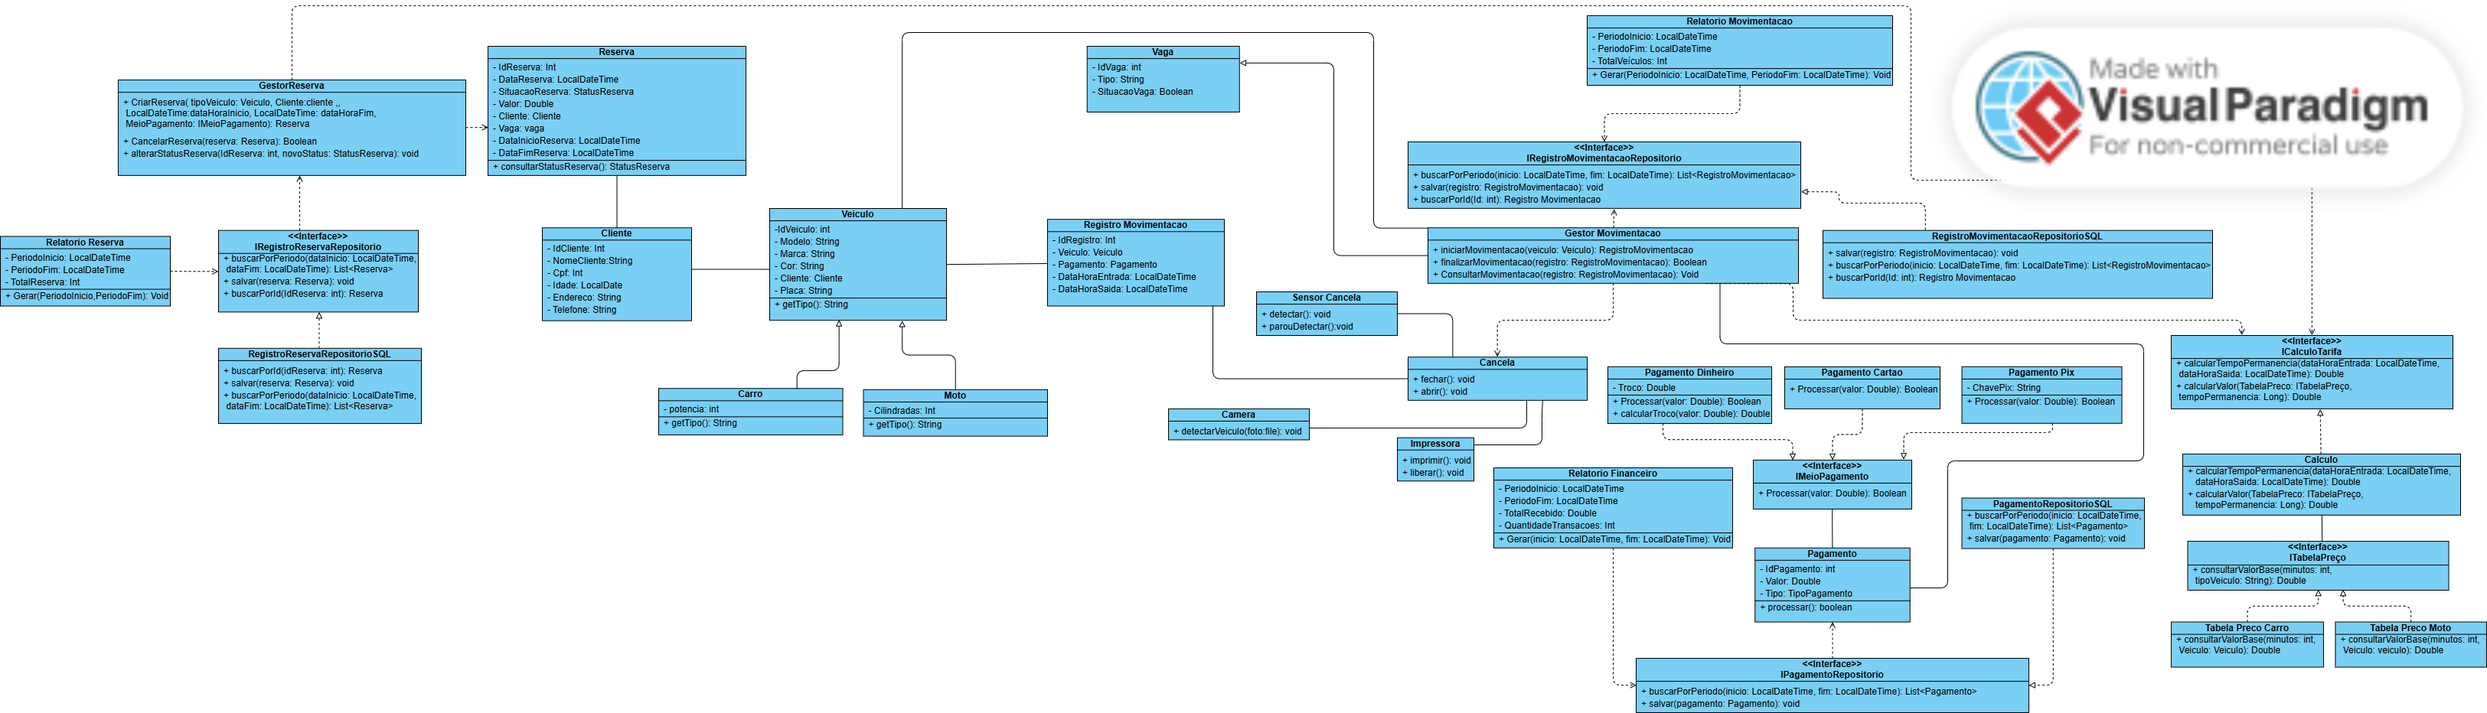
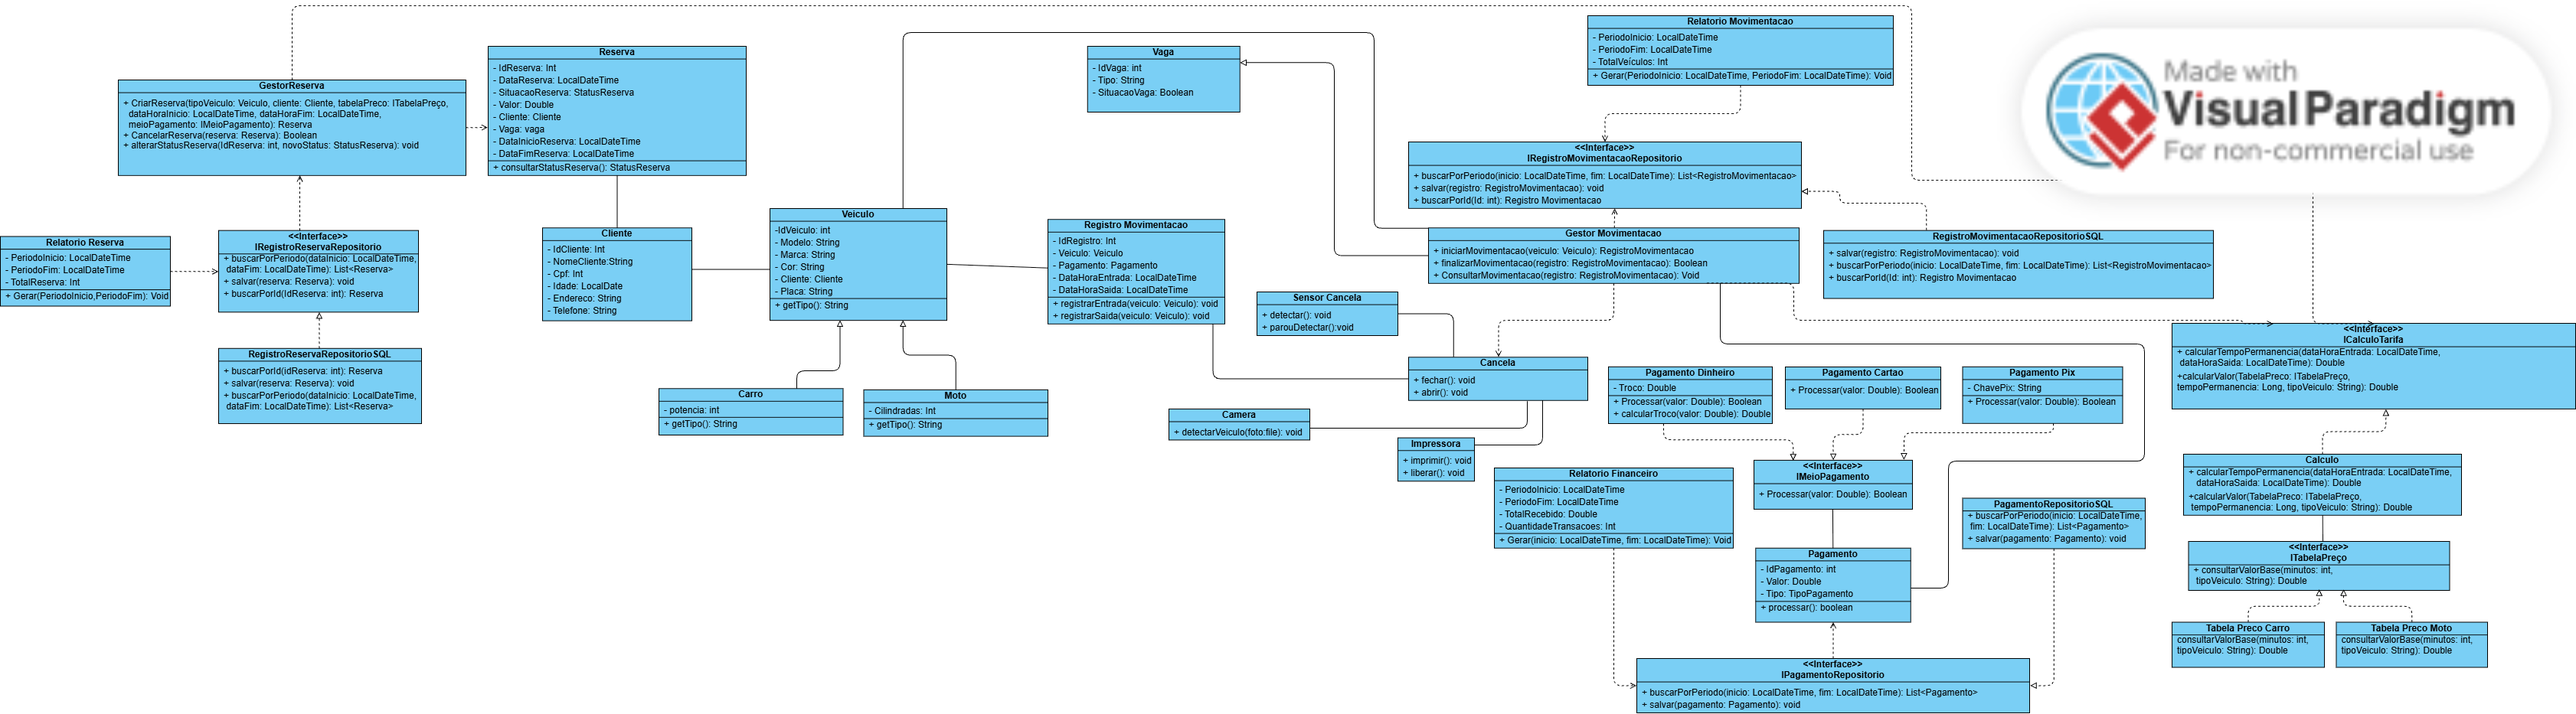
fix: corrige compilação, adiciona Main e atualiza README e diagrama

diff --git a/src/br/com/estacionamento/Main.java b/src/br/com/estacionamento/Main.java
@@ -1,0 +1,110 @@
+package br.com.estacionamento;
+
+import br.com.estacionamento.interfaces.ICalculoTarifa;
+import br.com.estacionamento.interfaces.IMeioPagamento;
+import br.com.estacionamento.interfaces.ITabelaPreco;
+import br.com.estacionamento.model.Carro;
+import br.com.estacionamento.model.Cliente;
+import br.com.estacionamento.model.Moto;
+import br.com.estacionamento.model.Pagamento;
+import br.com.estacionamento.model.RegistroMovimentacao;
+import br.com.estacionamento.model.Reserva;
+import br.com.estacionamento.model.TipoPagamento;
+import br.com.estacionamento.model.Veiculo;
+import br.com.estacionamento.service.Calculo;
+import br.com.estacionamento.service.GestorMovimentacao;
+import br.com.estacionamento.service.GestorReserva;
+import br.com.estacionamento.service.PagamentoCartao;
+import br.com.estacionamento.service.PagamentoPix;
+import br.com.estacionamento.service.TabelaPrecoCarro;
+import br.com.estacionamento.service.TabelaPrecoMoto;
+
+import java.time.LocalDateTime;
+import java.util.Locale;
+
+
+public class Main {
+
+    private static final Locale PT_BR = Locale.forLanguageTag("pt-BR");
+
+    public static void main(String[] args) {
+        Cliente cliente = new Cliente();
+        cliente.setIdCliente(1);
+        cliente.setNomeCliente("Cliente de Demonstração");
+
+        Carro carro = new Carro();
+        carro.setIdVeiculo(1);
+        carro.setMarca("Chevrolet");
+        carro.setModelo("Onix");
+        carro.setCor("Prata");
+        carro.setPlaca("ABC1D23");
+        carro.setCliente(cliente);
+
+        Moto moto = new Moto();
+        moto.setIdVeiculo(2);
+        moto.setMarca("Honda");
+        moto.setModelo("CG 160");
+        moto.setCor("Vermelha");
+        moto.setPlaca("XYZ9K87");
+        moto.setCliente(cliente);
+
+        GestorMovimentacao gestorMovimentacao = new GestorMovimentacao();
+        ICalculoTarifa calculo = new Calculo();
+
+        System.out.println("=== SISTEMA DE ESTACIONAMENTO ===");
+
+        simularMovimentacao(gestorMovimentacao, calculo, carro,
+                new TabelaPrecoCarro(), new PagamentoPix(), TipoPagamento.PIX, 90);
+
+        simularMovimentacao(gestorMovimentacao, calculo, moto,
+                new TabelaPrecoMoto(), new PagamentoCartao(), TipoPagamento.CARTAO, 45);
+
+        simularReserva(cliente, carro);
+    }
+
+    private static void simularMovimentacao(GestorMovimentacao gestor, ICalculoTarifa calculo,
+                                            Veiculo veiculo, ITabelaPreco tabela,
+                                            IMeioPagamento meioPagamento, TipoPagamento tipo,
+                                            int minutosDePermanencia) {
+        System.out.println();
+        System.out.println("--- " + veiculo.getTipo() + ": " + veiculo.getMarca() + " " + veiculo.getModelo() + " ---");
+
+        RegistroMovimentacao registro = gestor.iniciarMovimentacao(veiculo);
+        registro.setDataHoraEntrada(LocalDateTime.now().minusMinutes(minutosDePermanencia));
+
+        gestor.finalizarMovimentacao(registro);
+        System.out.println("Entrada e saída registradas");
+
+        long minutos = (long) calculo.calcularTempoPermanencia(
+                registro.getDataHoraEntrada(), registro.getDataHoraSaida());
+        double valor = calculo.calcularValor(tabela, minutos, veiculo.getTipo());
+        System.out.println("Permanência:        " + minutos + " min");
+        System.out.println(String.format(PT_BR, "Valor a pagar:      R$ %.2f", valor));
+
+        Pagamento pagamento = new Pagamento();
+        pagamento.setValor(valor);
+        pagamento.setTipo(tipo);
+        pagamento.setMeioPagamento(meioPagamento);
+        registro.setPagamento(pagamento);
+
+        boolean aprovado = pagamento.processar();
+        System.out.println("Pagamento (" + tipo + "): " + (aprovado ? "aprovado" : "recusado"));
+    }
+
+    private static void simularReserva(Cliente cliente, Veiculo veiculo) {
+        System.out.println();
+        System.out.println("--- Reserva ---");
+
+        GestorReserva gestorReserva = new GestorReserva();
+        LocalDateTime inicio = LocalDateTime.now().plusHours(1);
+        LocalDateTime fim = inicio.plusHours(3);
+
+        Reserva reserva = gestorReserva.criarReserva(
+                veiculo, cliente, new TabelaPrecoCarro(), inicio, fim, new PagamentoPix());
+        System.out.println("Reserva criada para " + reserva.getCliente().getNomeCliente() + " (duração: 3 horas)");
+        System.out.println("Status: " + reserva.consultarStatusReserva());
+
+        gestorReserva.cancelarReserva(reserva);
+        System.out.println("Status após cancelamento: " + reserva.consultarStatusReserva());
+    }
+}

diff --git a/src/br/com/estacionamento/model/Reserva.java b/src/br/com/estacionamento/model/Reserva.java
@@ -1,19 +1,23 @@
 package br.com.estacionamento.model;
 
+import br.com.estacionamento.model.Cliente;
+import br.com.estacionamento.model.StatusReserva;
+import br.com.estacionamento.model.Vaga;
+
 import java.time.LocalDateTime;
 
 public class Reserva {
 
     private int idReserva;
     private LocalDateTime dataReserva;
-    private StatusReserva situacaoReserva;
+    private br.com.estacionamento.model.StatusReserva situacaoReserva;
     private double valor;
-    private Cliente cliente;
-    private Vaga vaga;
+    private br.com.estacionamento.model.Cliente cliente;
+    private br.com.estacionamento.model.Vaga vaga;
     private LocalDateTime dataInicioReserva;
     private LocalDateTime dataFimReserva;
 
-    public StatusReserva consultarStatusReserva() {
+    public br.com.estacionamento.model.StatusReserva consultarStatusReserva() {
         return situacaoReserva;
     }
 
@@ -33,7 +37,7 @@ public class Reserva {
         this.dataReserva = dataReserva;
     }
 
-    public StatusReserva getSituacaoReserva() {
+    public br.com.estacionamento.model.StatusReserva getSituacaoReserva() {
         return situacaoReserva;
     }
 
@@ -49,7 +53,7 @@ public class Reserva {
         this.valor = valor;
     }
 
-    public Cliente getCliente() {
+    public br.com.estacionamento.model.Cliente getCliente() {
         return cliente;
     }
 
@@ -57,7 +61,7 @@ public class Reserva {
         this.cliente = cliente;
     }
 
-    public Vaga getVaga() {
+    public br.com.estacionamento.model.Vaga getVaga() {
         return vaga;
     }
 

diff --git a/src/br/com/estacionamento/model/RegistroMovimentacao.java b/src/br/com/estacionamento/model/RegistroMovimentacao.java
@@ -1,5 +1,8 @@
 package br.com.estacionamento.model;
 
+import br.com.estacionamento.model.Pagamento;
+import br.com.estacionamento.model.Veiculo;
+
 import java.time.LocalDateTime;
 
 public class RegistroMovimentacao {
@@ -7,15 +10,15 @@ public class RegistroMovimentacao {
     private int idRegistro;
     private LocalDateTime dataHoraEntrada;
     private LocalDateTime dataHoraSaida;
-    private Veiculo veiculo;
-    private Pagamento pagamento;
+    private br.com.estacionamento.model.Veiculo veiculo;
+    private br.com.estacionamento.model.Pagamento pagamento;
 
-    public void registrarEntrada(Veiculo veiculo) {
+    public void registrarEntrada(br.com.estacionamento.model.Veiculo veiculo) {
         this.veiculo = veiculo;
         this.dataHoraEntrada = LocalDateTime.now();
     }
 
-    public void registrarSaida(Veiculo veiculo) {
+    public void registrarSaida(br.com.estacionamento.model.Veiculo veiculo) {
         this.veiculo = veiculo;
         this.dataHoraSaida = LocalDateTime.now();
     }
@@ -44,7 +47,7 @@ public class RegistroMovimentacao {
         this.dataHoraSaida = dataHoraSaida;
     }
 
-    public Veiculo getVeiculo() {
+    public br.com.estacionamento.model.Veiculo getVeiculo() {
         return veiculo;
     }
 
@@ -52,7 +55,7 @@ public class RegistroMovimentacao {
         this.veiculo = veiculo;
     }
 
-    public Pagamento getPagamento() {
+    public br.com.estacionamento.model.Pagamento getPagamento() {
         return pagamento;
     }
 

diff --git a/src/br/com/estacionamento/service/GestorReserva.java b/src/br/com/estacionamento/service/GestorReserva.java
@@ -1,6 +1,5 @@
 package br.com.estacionamento.service;
 
-import br.com.estacionamento.interfaces.ICalculoTarifa;
 import br.com.estacionamento.interfaces.IMeioPagamento;
 import br.com.estacionamento.interfaces.ITabelaPreco;
 import br.com.estacionamento.model.Cliente;
@@ -10,7 +9,7 @@ import br.com.estacionamento.model.Veiculo;
 
 import java.time.LocalDateTime;
 
-public class GestorReserva implements ICalculoTarifa {
+public class GestorReserva {
 
     public Reserva criarReserva(Veiculo tipoVeiculo, Cliente cliente, ITabelaPreco tabelaPreco,
                                  LocalDateTime dataHoraInicio, LocalDateTime dataHoraFim,
@@ -31,16 +30,6 @@ public class GestorReserva implements ICalculoTarifa {
         return true;
     }
 
-    public void alterarStatusReserva(String idReserva, StatusReserva novoStatus) {
-    }
-
-    @Override
-    public double calcularTempoPermanencia(LocalDateTime dataHoraEntrada, LocalDateTime dataHoraSaida) {
-        return 0;
-    }
-
-    @Override
-    public double calcularValor(ITabelaPreco tabelaPreco, long tempoPermanencia) {
-        return 0;
+    public void alterarStatusReserva(int idReserva, StatusReserva novoStatus) {
     }
 }

diff --git a/src/br/com/estacionamento/model/Pagamento.java b/src/br/com/estacionamento/model/Pagamento.java
@@ -1,12 +1,14 @@
 package br.com.estacionamento.model;
 
 import br.com.estacionamento.interfaces.IMeioPagamento;
+import br.com.estacionamento.model.TipoPagamento;
 
 public class Pagamento {
 
     private int idPagamento;
     private double valor;
-    private TipoPagamento tipo;
+    private br.com.estacionamento.model.TipoPagamento tipo;
+    private IMeioPagamento meioPagamento;
 
     public boolean processar() {
         return meioPagamento.processar(valor);
@@ -28,7 +30,11 @@ public class Pagamento {
         this.valor = valor;
     }
 
-    public TipoPagamento getTipo() {
+    public void setMeioPagamento(IMeioPagamento meioPagamento) {
+        this.meioPagamento = meioPagamento;
+    }
+
+    public br.com.estacionamento.model.TipoPagamento getTipo() {
         return tipo;
     }
 

diff --git a/src/br/com/estacionamento/service/Calculo.java b/src/br/com/estacionamento/service/Calculo.java
@@ -2,7 +2,6 @@ package br.com.estacionamento.service;
 
 import br.com.estacionamento.interfaces.ICalculoTarifa;
 import br.com.estacionamento.interfaces.ITabelaPreco;
-import br.com.estacionamento.model.Veiculo;
 
 import java.time.Duration;
 import java.time.LocalDateTime;
@@ -14,8 +13,8 @@ public class Calculo implements ICalculoTarifa {
         return Duration.between(dataHoraEntrada, dataHoraSaida).toMinutes();
     }
 
-
-    public double calcularValor( ITabelaPreco tabelaPreco, long tempoPermanencia) {
-        return tabelaPreco.consultarValorBase((int) tempoPermanencia);
+    @Override
+    public double calcularValor(ITabelaPreco tabelaPreco, long tempoPermanencia, String tipoVeiculo) {
+        return tabelaPreco.consultarValorBase((int) tempoPermanencia, tipoVeiculo);
     }
 }

diff --git a/src/br/com/estacionamento/interfaces/ICalculoTarifa.java b/src/br/com/estacionamento/interfaces/ICalculoTarifa.java
@@ -1,6 +1,6 @@
 package br.com.estacionamento.interfaces;
 
-import br.com.estacionamento.model.Veiculo;
+import br.com.estacionamento.interfaces.ITabelaPreco;
 
 import java.time.LocalDateTime;
 
@@ -8,5 +8,5 @@ public interface ICalculoTarifa {
 
     double calcularTempoPermanencia(LocalDateTime dataHoraEntrada, LocalDateTime dataHoraSaida);
 
-    double calcularValor(ITabelaPreco tabelaPreco, long tempoPermanencia);
+    double calcularValor(ITabelaPreco tabelaPreco, long tempoPermanencia, String tipoVeiculo);
 }

diff --git a/src/br/com/estacionamento/service/relatorio/RelatorioReserva.java b/src/br/com/estacionamento/service/relatorio/RelatorioReserva.java
@@ -11,7 +11,6 @@ public class RelatorioReserva {
     public void gerar(LocalDateTime periodoInicio, LocalDateTime periodoFim) {
         this.periodoInicio = periodoInicio;
         this.periodoFim = periodoFim;
-        // TODO: consultar reservas do período (via IRegistroReservaRepositorio) e calcular totalReserva
     }
 
     public LocalDateTime getPeriodoInicio() {

diff --git a/src/br/com/estacionamento/service/relatorio/RelatorioFinanceiro.java b/src/br/com/estacionamento/service/relatorio/RelatorioFinanceiro.java
@@ -12,7 +12,6 @@ public class RelatorioFinanceiro {
     public void gerar(LocalDateTime inicio, LocalDateTime fim) {
         this.periodoInicio = inicio;
         this.periodoFim = fim;
-        // TODO: consultar pagamentos do período (via IPagamentoRepositorio) e calcular totalRecebido/quantidadeTransacoes
     }
 
     public LocalDateTime getPeriodoInicio() {

diff --git a/src/br/com/estacionamento/service/Cancela.java b/src/br/com/estacionamento/service/Cancela.java
@@ -3,10 +3,8 @@ package br.com.estacionamento.service;
 public class Cancela {
 
     public void fechar() {
-        // TODO: lógica de fechamento da cancela
     }
 
     public void abrir() {
-        // TODO: lógica de abertura da cancela
     }
 }

diff --git a/src/br/com/estacionamento/model/Veiculo.java b/src/br/com/estacionamento/model/Veiculo.java
@@ -51,6 +51,10 @@ public abstract class Veiculo {
         this.cliente = cliente;
     }
 
+    public String getPlaca() {
+        return placa;
+    }
+
     public void setPlaca(String placa) {
         this.placa = placa;
     }

diff --git a/src/br/com/estacionamento/service/GestorMovimentacao.java b/src/br/com/estacionamento/service/GestorMovimentacao.java
@@ -1,6 +1,5 @@
 package br.com.estacionamento.service;
 
-import br.com.estacionamento.model.Funcionario;
 import br.com.estacionamento.model.RegistroMovimentacao;
 import br.com.estacionamento.model.Veiculo;
 
